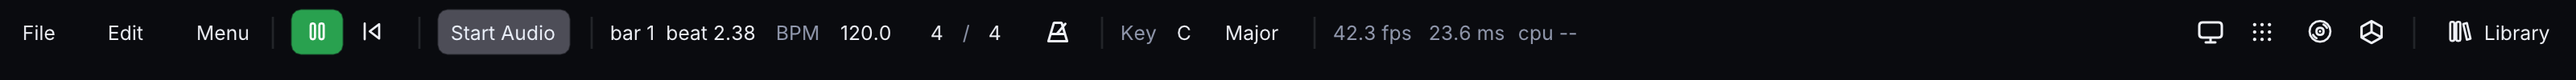
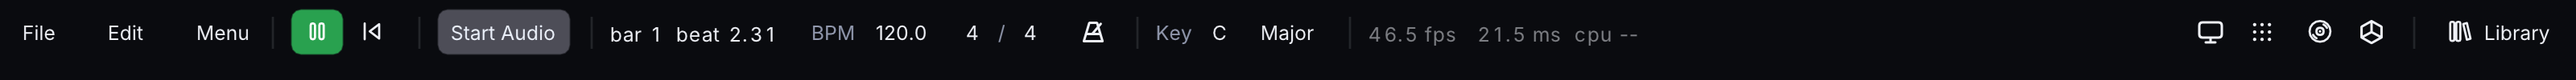
Top bar: bar/beat, fps/ms and cpu use tabular-digit readouts in fixed slots

Changed region(s): [[0.2188, 0.27, 0.6562, 0.54]]

diff --git a/src/app/frame/StageMenuBar.cpp b/src/app/frame/StageMenuBar.cpp
@@ -1,6 +1,7 @@
 // Split out of main(): see docs/plans/main-split/README.md (Block C)
 #include "app/ui/design/GlyphDraw.h"
 #include "app/ui/design/components/IconTile.h"
+#include "app/ui/design/components/Readout.h"
 #include "app/ui/design/components/TopBarParts.h"
 #include "app/ui/design/components/Divider.h"
 #include "app/ui/design/TokenColors.h"
@@ -305,6 +306,20 @@ void DrawMenuBar(FrameCtx& fc)
                ImGui::TextUnformatted(text);
          };
          const bool isLight = IsThemeLight();
+         // A live number: tabular digits in a slot as wide as its widest value, so it never
+         // shifts what sits beside it. `widest` is the longest text it can show.
+         auto TabLabel = [](const char* key, const char* text, const char* widest, bool dim)
+         {
+            const ImVec2 p = ImGui::GetCursorScreenPos();
+            float w;
+            {
+               UiType::Scope ts(UiType::Size::Title, UiType::Weight::Regular);
+               w = std::max(Readout::Measure(widest), Readout::Measure(text));
+            }
+            ImGui::Dummy(ImVec2(w, tok::tile));
+            Readout::Draw(key, UiLayout::Rect { p.x, p.y, w, tok::tile }, text, text, UiType::Size::Title,
+                          UiType::Weight::Regular, Readout::Align::Left, dim ? 0.5f : 1.0f);
+         };
 
          auto& SectionBreak = TopBarParts::SectionBreak;
          // Everything after the menus sits on one centre line, tok::tile tall in a tok::bar_h bar.
@@ -419,7 +434,9 @@ void DrawMenuBar(FrameCtx& fc)
             snprintf(barBeat, sizeof(barBeat), T("bar %d  beat %.2f"),
                      1 + (int)transport.Bars(),
                      std::fmod(transport.Beats(), transport.BeatsPerBar()) + 1.0);
-            TopBarLabel(barBeat);
+            char barWidest[64];
+            snprintf(barWidest, sizeof(barWidest), T("bar %d  beat %.2f"), 99, 9.99);
+            TabLabel("topbar.barbeat", barBeat, barWidest, false);
             TopBarSameLine(12.0f);
          }
 
@@ -792,9 +809,9 @@ void DrawMenuBar(FrameCtx& fc)
          else
             snprintf(cpuReadout, sizeof(cpuReadout), "cpu --");
 
-         TopBarLabel(readout, true);
+         TabLabel("topbar.fps", readout, "99.9 fps   99.9 ms", true);
          TopBarSameLine(8.0f);
-         TopBarLabel(cpuReadout, true);
+         TabLabel("topbar.cpu", cpuReadout, audioDead ? cpuReadout : "cpu 99%", true);
 
          if (audioEngineOn && xruns > 0 && ImGui::IsItemHovered())
             ImGui::SetTooltip(T("xruns=%llu this session\n%llu late block(s) (render over the deadline)\n%llu reported by the audio device"),
